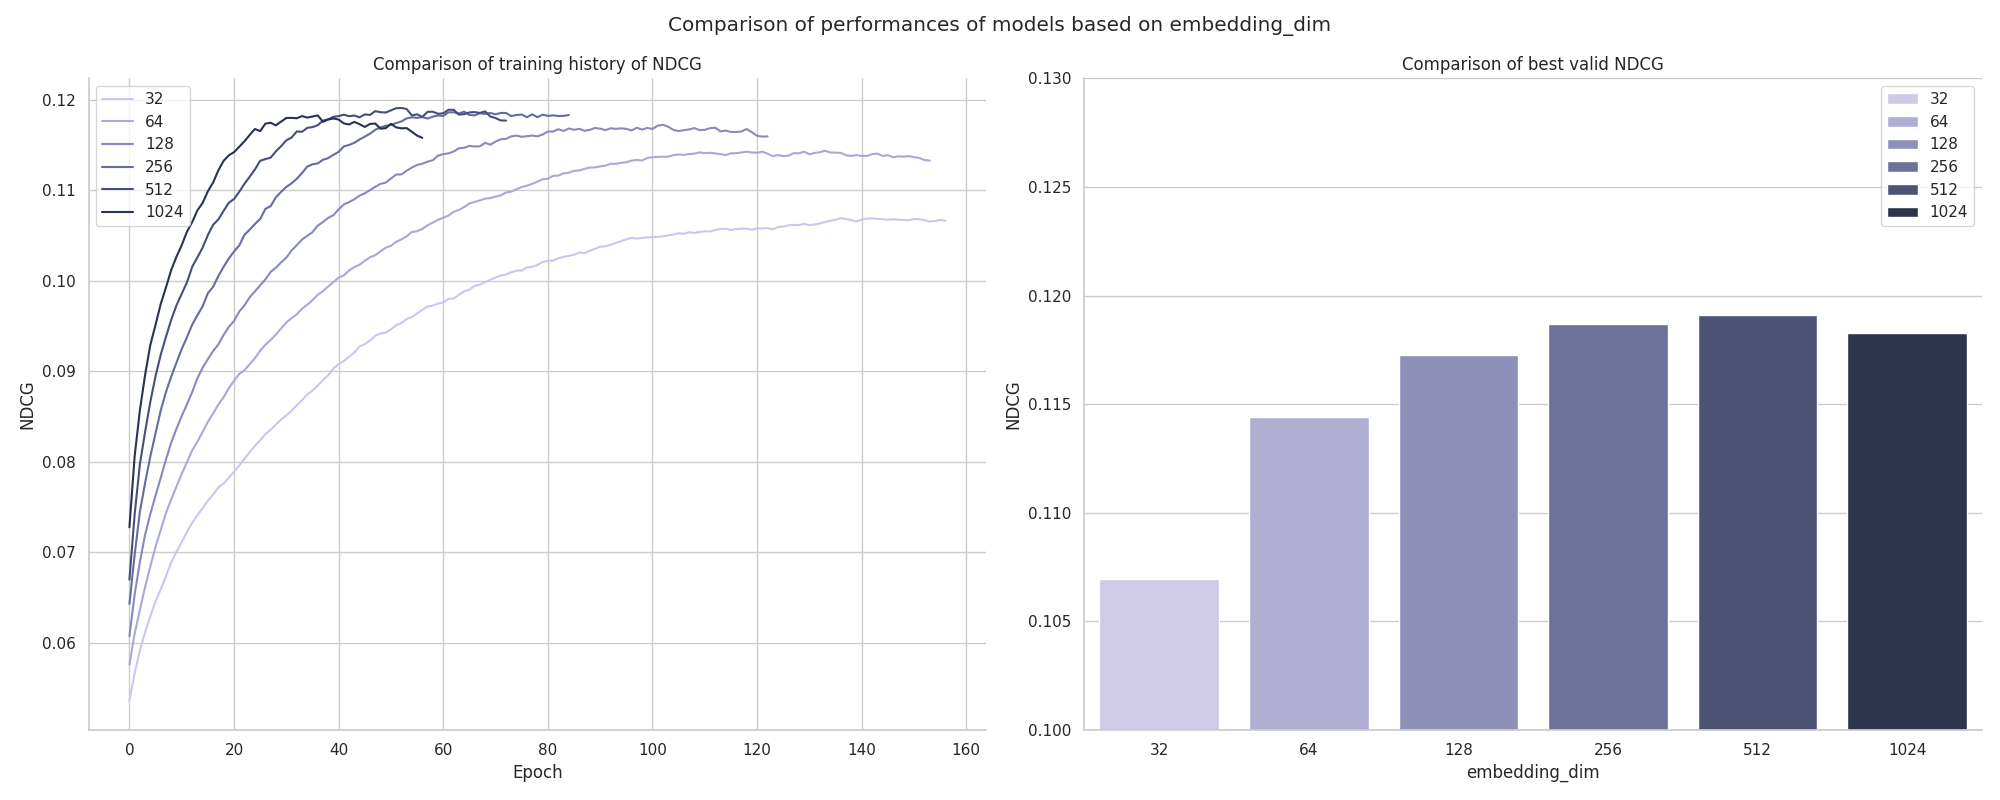
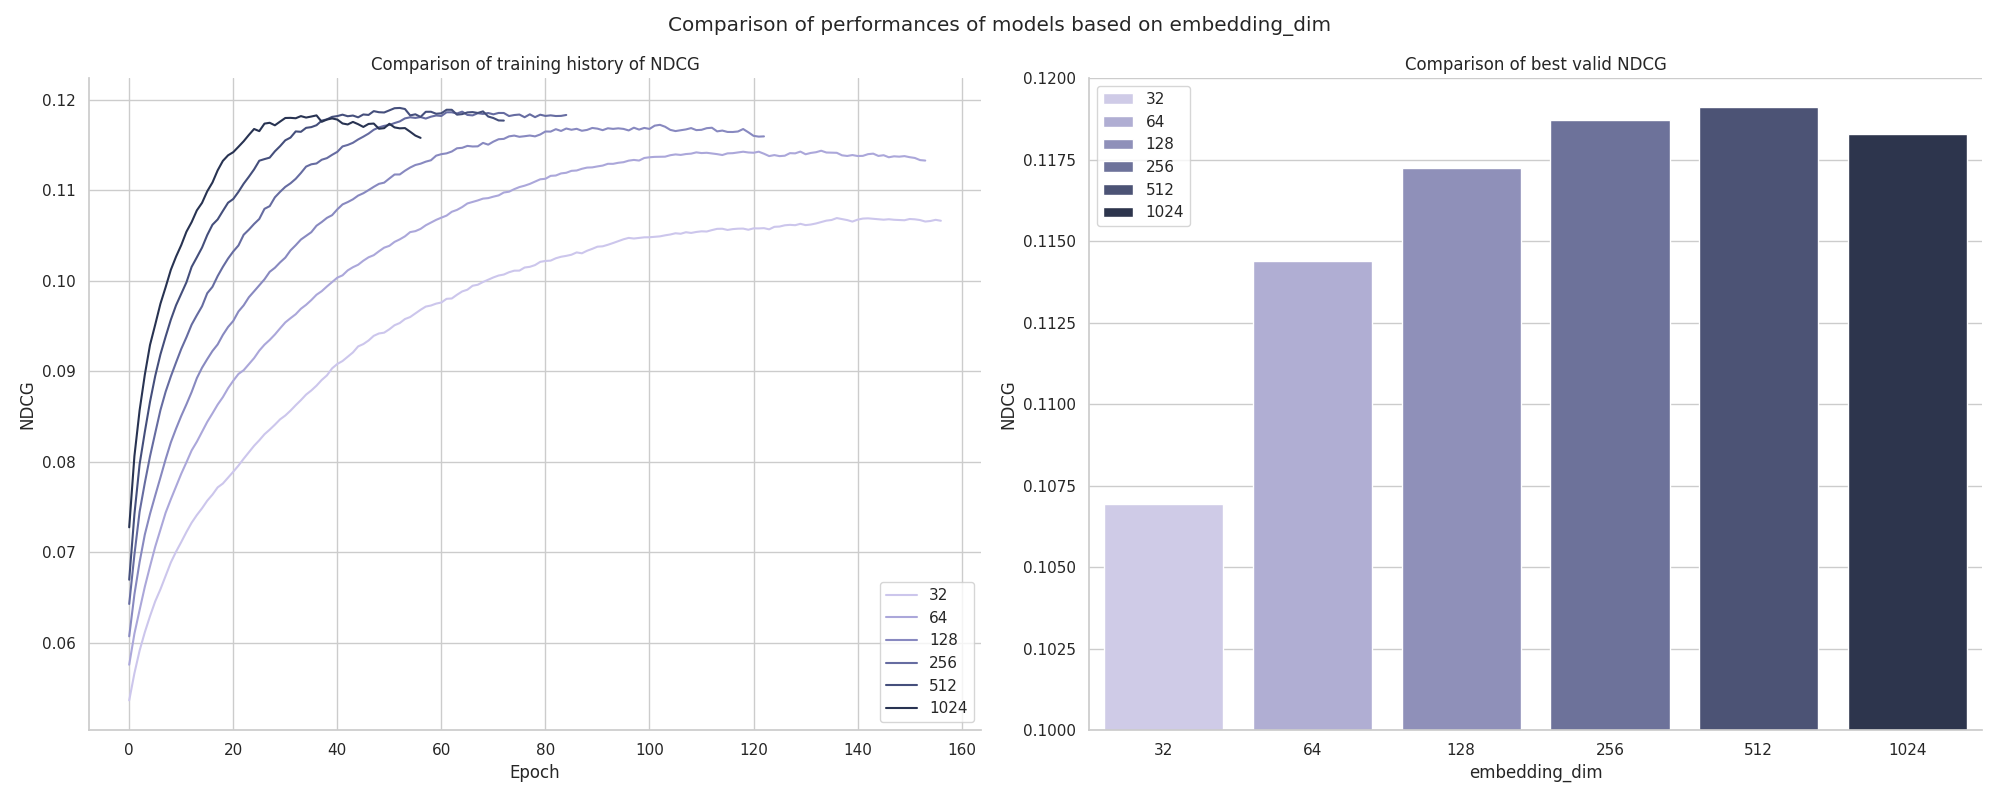
experiment with n_layers 7

diff --git a/evaluation/compare_models.py b/evaluation/compare_models.py
@@ -1,5 +1,6 @@
 import os
 import json
+import math
 
 import numpy as np
 import pandas as pd
@@ -7,7 +8,6 @@ import matplotlib.pyplot as plt
 import seaborn as sns
 
 from hydra import initialize, compose
-from omegaconf import OmegaConf
 
 def update_performance_csv(cfg):
     metrics = []
@@ -65,7 +65,10 @@ def plot_comparisons(names, targets, config_path, target_name=None):
 
     results = results[["target", "ndcg"]].groupby("target").agg("max")
     sns.barplot(results, x="target", y="ndcg", ax=ax2, hue="target", palette=palette)
-    ax2.set_ylim(0.10, 0.13)
+    min = math.floor(results["ndcg"].min() * 100) / 100
+    max = math.ceil(results["ndcg"].max() * 100) / 100
+    ax2.set_ylim(min, max)
+
     ax2.set_title("Comparison of best valid NDCG")
     ax2.set_xlabel(target_name)
     ax2.set_ylabel("NDCG")

diff --git a/main.py b/main.py
@@ -57,7 +57,7 @@ def train_model(cfg):
     trainer = Trainer(cfg, model)
     trainer.train()
 
-    return True
+    split_embeddings(cfg)
 
 def evaluate_model(cfg):
     if not check_training_completed(cfg):
@@ -72,9 +72,6 @@ def evaluate_model(cfg):
 @hydra.main(version_base=None, config_path="config", config_name="config")
 def main(cfg: DictConfig):
     seed_everything()
-
-    split_embeddings(cfg)
-    load_embeddings(cfg)
 
     print("Preparation of Dataset")
     process_dataset(cfg)

diff --git a/training/test.py b/training/test.py
@@ -1,7 +1,5 @@
 
+from utils import *
+
 def test_model_performance(cfg):
-    embedding_path = f"{cfg.paths.emb}"
-    if not
-embeddings = self.get_embeddings()
-        recall, ndcgs = self.evaluator.evaluate(embeddings)
-        return recall, ndcgs
+    embeddings = load_embeddings(cfg)
